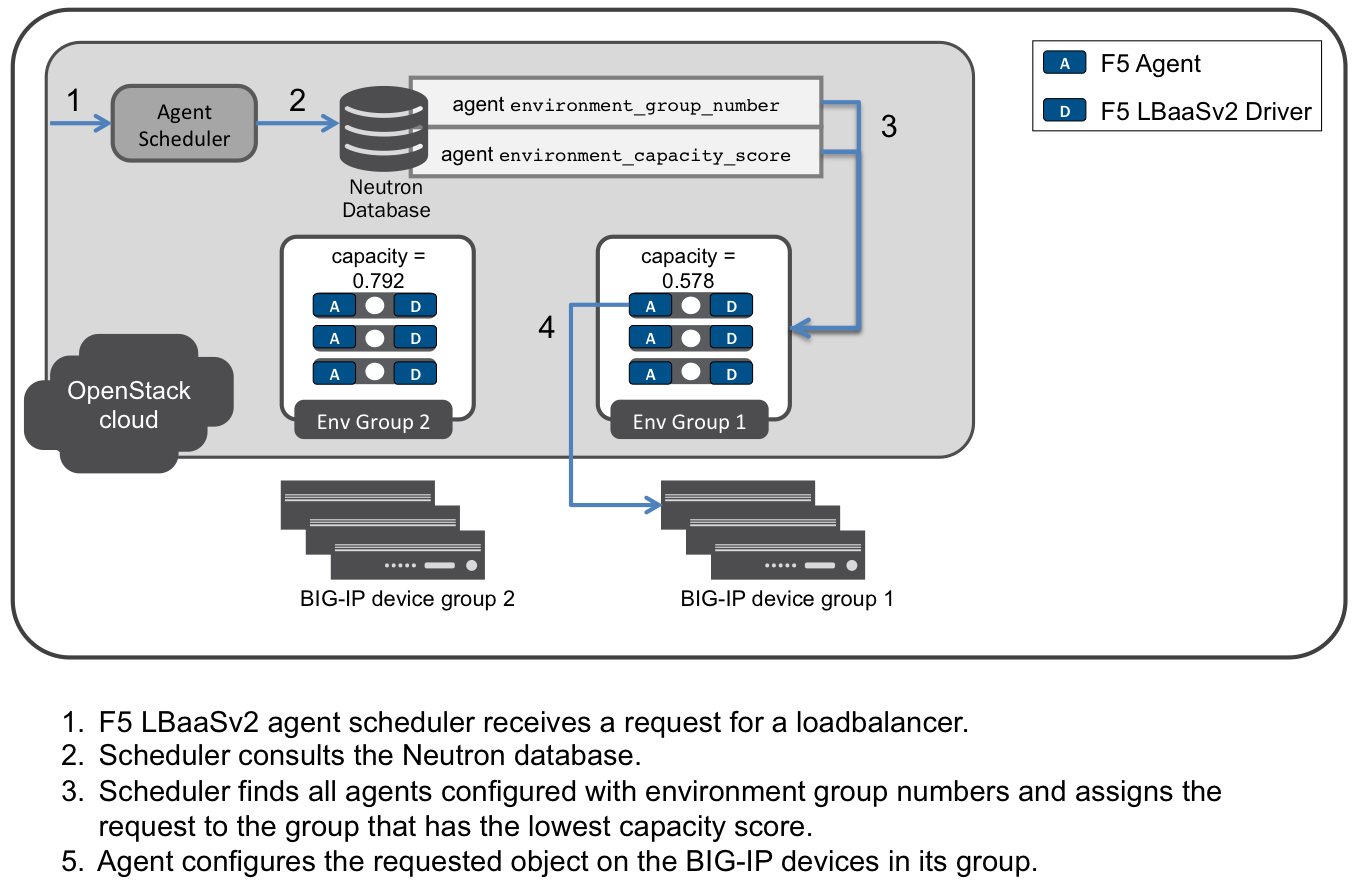
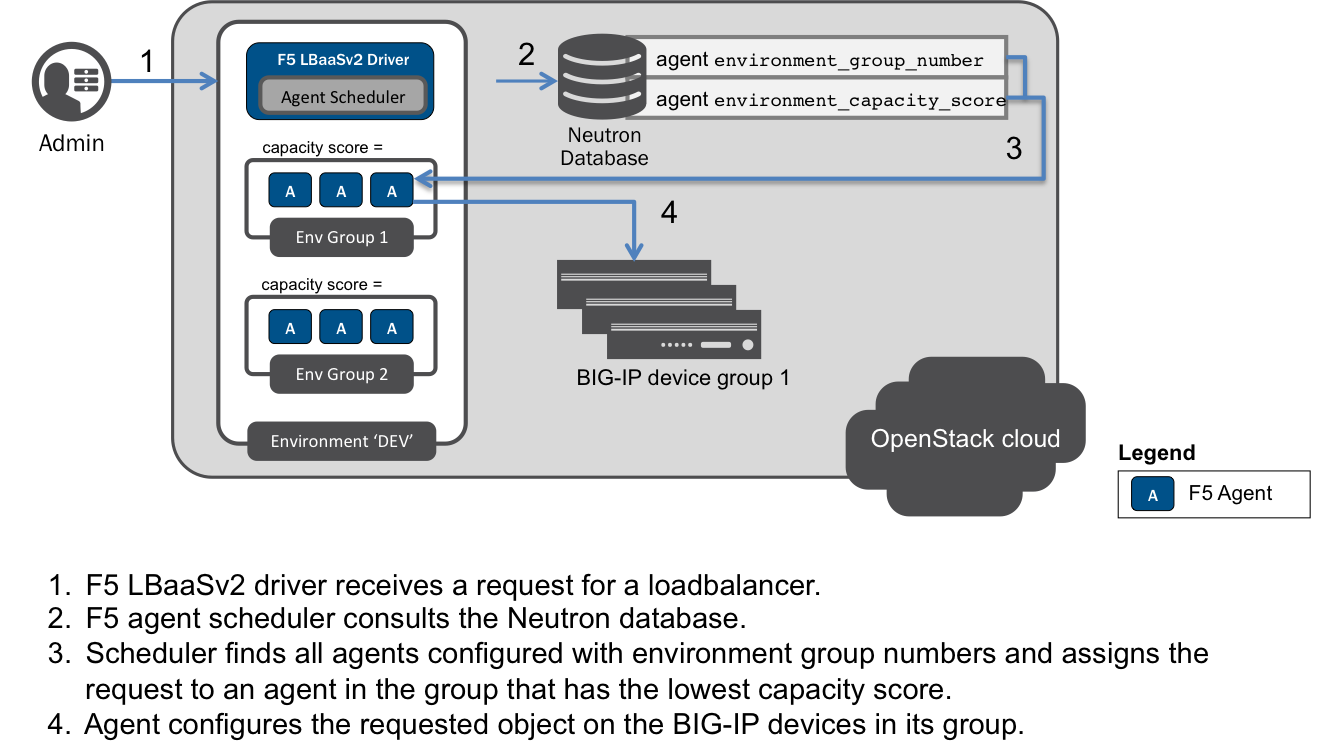
code review from @richbrowne
update diagram for clarity

code review from @richbrowne

fix sphinx build issues"

fix sphinx build issues & add new docs to supported features toctree

diff --git a/docs/includes/topic_l2-l3-segmentation-modes.rst b/docs/includes/topic_l2-l3-segmentation-modes.rst
@@ -12,7 +12,7 @@ The F5® agent uses the L2/L3 segmentation mode settings to determine the L2/L3 
 
     These settings must be configured correctly for the F5 agent to manage your BIG-IP(s). Knowledge of networking concepts and BIG-IP configuration is required.
 
-.. rubric:: L2 segmentation mode settings include:
+L2 segmentation mode settings:
 
 * Mapping VLANs to BIG-IP device interfaces (with or without tagging)
 * Mapping VLAN tags to specific BIG-IP ports
@@ -20,7 +20,7 @@ The F5® agent uses the L2/L3 segmentation mode settings to determine the L2/L3 
 * Tunnel types
 
 
-.. rubric:: L3 segmentation mode settings include:
+L3 segmentation mode settings:
 
 * :ref:`Global routed mode` / Route domains
 * SNAT Mode and SNAT Address Counts
@@ -34,11 +34,11 @@ Typically, the F5 agent is used to manage one (1) or more BIG-IP devices deploye
 
 The default mode of operation for the F5 agent is **L2 adjacent mode** (``f5_global_routed_mode = False``).
 
-.. topic:: Example: L2-adjacent BIG-IP cluster
+.. figure:: ../media/f5-lbaas-l2-3-adjacent-mode.png
+    :alt: L2-adjacent BIG-IP cluster
+    :width: 350
 
-    .. figure:: ../media/f5-lbaas-l2-3-adjacent-mode.png
-        :alt: L2 adjacent mode
-        :width: 350
+    L2-adjacent BIG-IP cluster
 
 .. important:: Knowledge of the external network configuration, and that of the BIG-IP device(s), is required to configure these settings.
 
@@ -63,13 +63,13 @@ Prerequisites
 Caveats
 -------
 
-- Many L3 segmentation mode settings are dependent on how others are configured. It's important to read the text in the :ref:`agent configuration file` carefully before changing these settings to ensure they don't conflict.
+- Many L3 segmentation mode parameters depend on other configuration parameters. It's important to read the text in the :ref:`agent configuration file` carefully before changing these settings to ensure they don't conflict.
 
 
 Configuration
 -------------
 
-All settings can be configured by editing the :ref:`Agent Configuration File`:
+Edit the :ref:`Agent Configuration File` to configure the F5 agent.
 
 .. code-block:: text
 
@@ -82,17 +82,17 @@ All settings can be configured by editing the :ref:`Agent Configuration File`:
     * :download:`Sample Agent Configuration file for VXLAN <../_static/f5-openstack-agent.vxlan.ini>`
 
 
-L2 Segmentation Mode Settings
-`````````````````````````````
+L2 Segmentation Mode
+````````````````````
 
 Device VLAN to interface and tag mapping
 ~~~~~~~~~~~~~~~~~~~~~~~~~~~~~~~~~~~~~~~~
 
 - ``f5_external_physical_mappings``: Maps VLANs to BIG-IP interfaces. Must use the following format:
 
-.. code-block:: text
+    .. code-block:: text
 
-    physical_network:interface_name:tagged
+        physical_network:interface_name:tagged
 
 \
     * ``physical_network``: The external physical network; corresponds to the Neutron ``provider:physical_network`` attribute.
@@ -101,7 +101,7 @@ Device VLAN to interface and tag mapping
 
     * ``tagged``: Value must be True or False; indicates whether or not VLAN tagging should be enforced by the BIG-IP.
 
-.. topic:: Example
+    **Example**
 
     .. code-block:: text
         :emphasize-lines: 31
@@ -142,7 +142,7 @@ Device VLAN to interface and tag mapping
 VLAN device and interface to port mappings
 ~~~~~~~~~~~~~~~~~~~~~~~~~~~~~~~~~~~~~~~~~~
 
-- ``vlan_binding_driver``: Binds tagged VLANs to specific BIG-IP ports; it should be configured using a valid subclass of the iControl® :class:`VLANBindingBase` class. [#]_ To use this feature, uncomment the line in the :ref:`agent configuration file`.
+- ``vlan_binding_driver``: Binds tagged VLANs to specific BIG-IP ports; it should be configured using a valid subclass of the iControl® :class:`VLANBindingBase` class. [#]_ **To use this feature, uncomment the line in the :ref:`agent configuration file`.**
 
 
 Device Tunneling (VTEP) selfips
@@ -152,7 +152,7 @@ Device Tunneling (VTEP) selfips
 
 - ``f5_vtep_selfip_name``: The name of the self IP assigned to the VTEP. The self IP must be configured on the BIG-IP **before** you configure the F5 agent.
 
-.. topic:: Example
+    **Example**
 
     .. code-block:: text
         :emphasize-lines: 9, 10
@@ -175,8 +175,7 @@ Tunnel Types
 
 - ``advertised_tunnel_types``: The type of tunnel(s) being used to connect the BIG-IP device(s) to controller/compute node(s) in OpenStack; can be GRE or VxLAN. Values should be comma-separated if more than one tunnel type is being used. If you are not using tunnels, leave this setting blank.
 
-
-.. topic:: Example
+    **Example**
 
     .. code-block:: text
         :emphasize-lines: 14
@@ -213,7 +212,7 @@ Static ARP population for members on tunnel networks
 
 - ``l2_population``: Value must be True or False; indicates whether or not BIG-IP uses L2 population service to update fbd tunnel entries.
 
-.. topic:: Example
+    **Example**
 
     .. code-block:: text
         :emphasize-lines: 9, 18
@@ -251,7 +250,7 @@ Namespaces and Routing
 
 - ``use_namespaces``: Value must be True or False; indicates whether or not traffic should be routed according to tenant routing tables. Setting this value to True allows subnet IP addresses to overlap.
 
-.. topic:: Example
+    **Example**
 
     .. code-block:: text
         :emphasize-lines: 8
@@ -268,7 +267,7 @@ Namespaces and Routing
 
 - ``max_namespaces_per_tenant``: Value must be an integer; indicates the maximum number of route domains allowed per tenant. This allows a tenant to have overlapping IP subnets.
 
-.. topic:: Example
+    **Example**
 
     .. code-block:: text
         :emphasize-lines: 27
@@ -304,7 +303,7 @@ Namespaces and Routing
 
 - ``f5_route_domain_strictness``: Value must be True or False; indicates whether VIPS and members in different tenants can communicate with each other. In other words, setting this value to true forces tenant routing tables to be preferred over the global routing table.
 
-.. topic:: Example
+    **Example**
 
     .. code-block:: text
         :emphasize-lines: 8
@@ -331,7 +330,7 @@ SNAT Mode and SNAT Address Counts
 
 - ``f5_common_external_networks``: Value must be True or False; when set to True, traffic on all Neutron networks for which the router type is ``external`` will be routed according to the global routing table.
 
-.. topic:: Example
+    **Example**
 
     .. code-block:: text
         :emphasize-lines: 19, 36, 42
@@ -386,7 +385,7 @@ Common Networks
 
 - ``common_network_ids``: This should be a 'name-value' pair; multiple values can be comma-separated. The first entry is the Neutron network ID; the second is the network name (as configured on the BIG-IP).
 
-.. topic:: Example
+    **Example**
 
     .. code-block:: text
         :emphasize-lines: 21, 26
@@ -428,7 +427,7 @@ The L3 Binding driver is **required** for BIG-IP VE(s) deployed within your Open
 
 - ``l3_binding_driver``: uncomment this line in the :ref:`agent configuration file` if you're using an :term:`overcloud` VE.
 
-.. topic:: Example
+    **Example**
 
     .. code-block:: text
         :emphasize-lines: 2

diff --git a/docs/includes/topic_clustering.rst b/docs/includes/topic_clustering.rst
@@ -1,6 +1,6 @@
 :orphan: true
 
-Managing BIG-IP Clusters with F5 LBaaS
+Manage BIG-IP Clusters with F5 LBaaSv2
 ======================================
 
 Overview
@@ -12,17 +12,17 @@ The F5 agent applies LBaaS configuration changes to each BIG-IP :term:`device` i
 
 Clustering provides a greater degree of redundancy than a standalone device offers. It helps to avoid service interruptions that could otherwise occur if a device should go down. F5 LBaaSv2 can manage BIG-IP `Sync-Failover device groups`_ when set to use either the :term:`pair` or the :term:`scalen` :ref:`High Availability mode <HA mode>`.
 
-.. topic:: Example: BIG-IP ``scalen`` cluster
-
     .. figure:: ../media/f5-lbaas-scalen-cluster.png
         :alt: BIG-IP scalen cluster
         :width: 500
+
+        BIG-IP scalen cluster
 
 
 Prerequisites
 -------------
 
-- Basic understanding of `BIG-IP® device service clustering <https://support.f5.com/kb/en-us/products/big-ip_ltm/manuals/product/bigip-device-service-clustering-admin-12-0-0.html>`_.
+- Basic understanding of `BIG-IP device service clustering <https://support.f5.com/kb/en-us/products/big-ip_ltm/manuals/product/bigip-device-service-clustering-admin-12-0-0.html>`_.
 
 - Licensed, operational BIG-IP :term:`device service cluster`.
 
@@ -47,43 +47,43 @@ Caveats
 Configuration
 -------------
 
-1. Edit the :ref:`Agent Configuration File`:
+#. Edit the :ref:`Agent Configuration File`:
 
-.. code-block:: text
+    .. code-block:: text
 
-    $ sudo vi /etc/neutron/services/f5/f5-openstack-agent.ini
+        $ sudo vi /etc/neutron/services/f5/f5-openstack-agent.ini
 
 
-2. Set the :ref:`HA mode` to :term:`pair` or :term:`scalen`.
+#. Set the :ref:`HA mode` to :term:`pair` or :term:`scalen`.
 
-.. code-block:: text
-    :emphasize-lines: 10
+    .. code-block:: text
+        :emphasize-lines: 10
 
-    # HA mode
-    #
-    # Device can be required to be:
-    #
-    # standalone - single device no HA
-    # pair - active-standby two device HA
-    # scalen - active device cluster
-    #
-    #
-    f5_ha_type = pair
-    #
-    #
+        # HA mode
+        #
+        # Device can be required to be:
+        #
+        # standalone - single device no HA
+        # pair - active-standby two device HA
+        # scalen - active device cluster
+        #
+        #
+        f5_ha_type = pair
+        #
+        #
 
-3. Add the IP address for each BIG-IP device, the admin username, and the admin password to the :ref:`Device Driver - iControl® Driver Setting <Device Driver Settings / iControl Driver Settings>` section of the config file. Values must be comma-separated.
+#. Add the IP address for each BIG-IP device, the admin username, and the admin password to the :ref:`Device Driver - iControl® Driver Setting <Device Driver Settings / iControl Driver Settings>` section of the config file. Values must be comma-separated.
 
-.. code-block:: text
-    :emphasize-lines: 10
+    .. code-block:: text
+        :emphasize-lines: 10
 
-    #
-    icontrol_hostname = 10.190.7.232,10.190.4.193
-    #
-    icontrol_username = admin
-    #
-    icontrol_password = admin
-    #
+        #
+        icontrol_hostname = 10.190.7.232,10.190.4.193
+        #
+        icontrol_username = admin
+        #
+        icontrol_password = admin
+        #
 
 
 Further Reading

diff --git a/docs/includes/topic_capacity-based-scaleout.rst b/docs/includes/topic_capacity-based-scaleout.rst
@@ -8,7 +8,7 @@ Overview
 
 When using :ref:`differentiated service environments <Differentiated Service Environments>`, you can configure capacity metrics for the F5® agent to provide scale out across multiple BIG-IP device groups. The F5 agent :ref:`configuration parameters <Configure the F5 OpenStack Agent>`  ``environment_group_number`` and ``environment_capacity_score`` allow the F5 LBaaSv2 agent scheduler to assign requests to the group that has the lowest capacity score.
 
-Each F5 agent is first configured, via the ``icontrol_endpoint`` parameter, to manage a BIG-IP device or device group. Agents with the same ``environment_group_number`` manage the same BIG-IP device group, regardless of whether they are configured with the same iControl® endpoints. This means that an agent can be configured to manage a specific device, but also be available to handle requests for its group.
+Each F5 agent expected to manage a specific :term:`device group` must be configured with the same ``icontrol_endpoints``. They must also be configured with the same ``environment_group_number``; this is used by the F5 LBaaSv2 driver to map the agents to the BIG-IP device group. The ``environment_group_number`` provides a convenient way for the F5 driver to identify agents that are available to handle requests for any of the devices in a given group.
 
 You can configure a variety of capacity metrics via the ``capacity_policy`` configuration parameter. These metrics are used to calculate an ``environment_capacity_score`` for the environment group. Each agent calculates the capacity score for its group and reports the score back to the Neutron database.
 
@@ -20,11 +20,9 @@ The capacity score is determined by dividing the metric collected by the max spe
     Capacity Based Scale Out
 
 
-As demonstrated in the figure, when a new service request is received, the agent scheduler consults the Neutron database. It uses the ``environment_group_number`` and the group's last reported  ``environment_capacity_score`` to assign the task to  the group with the highest availability. An agent in that group is selected at random to handle the request.
+As demonstrated in the figure, when a new service request is received, the agent scheduler consults the Neutron database. It uses the ``environment_group_number`` and the group's last reported  ``environment_capacity_score`` to assign the task to the group with the lowest utilization. An agent in that group is selected at random to handle the request.
 
-If an agent has previously handled requests for the specified tenant, that agent receives the task. If that agent is a member of a group for which the last reported ``environment_capacity_score`` is above capacity, the  request is assigned to an agent in a different group where capacity is under the limit.
-
-If the scheduler doesn't find an associated agent for the tenant when a new request is received,
+If an agent has previously handled requests for the specified tenant, that agent receives the task. If that agent is a member of a group for which the last reported ``environment_capacity_score`` is above capacity, the request is assigned to an agent in a different group where capacity is under the limit.
 
 .. warning::
 

diff --git a/docs/includes/topic_multi-tenancy.rst b/docs/includes/topic_multi-tenancy.rst
@@ -1,6 +1,6 @@
 :orphan: true
 
-Managing Multi-Tenant BIG-IP Devices with F5 LBaaS
+Manage Multi-Tenant BIG-IP Devices with F5 LBaaSv2
 ==================================================
 
 Overview
@@ -8,12 +8,11 @@ Overview
 
 BIG-IP® devices allow users to create and customize partitions for which specific features that meet a tenant's needs can be enabled. This type of configuration, called multi-tenancy, allows a greater degree of flexibility in allocating network resources to multiple individual projects. [#]_
 
-
-.. topic:: Example: Multi-tenant BIG-IP and F5 LBaaS
-
     .. figure:: ../media/f5-lbaas-multi-tenancy.png
         :alt: Multi-tenant BIG-IP and F5 LBaaS
         :width: 500
+
+        Multi-tenant BIG-IP and F5 LBaaS
 
 
 Prerequisites
@@ -39,7 +38,7 @@ When using BIG-IP Virtual Edition (VE) with the Linux bridge or Open vSwitch Neu
 
 1) :ref:`Global Routed Mode`: BIG-IP VE is connected only to provider networks; all pool member L3 addresses must be routable using cloud infrastructure routers.
 
-2) :ref:`L2 Segmentation Modes <L2 Segmentation Mode Settings>` using GRE or VxLAN tunnels: BIG-IP VE has a data connection to a provider network which can route IP packets to the ``local_ip`` VTEP addresses of the compute and network nodes through a cloud infrastructure router.
+2) :ref:`L2 Segmentation Modes <L2 Segmentation Mode>` using GRE or VxLAN tunnels: BIG-IP VE has a data connection to a provider network which can route IP packets to the ``local_ip`` VTEP addresses of the compute and network nodes through a cloud infrastructure router.
 
 .. As of the Mitaka release the Linux bridge and Open vSwitch core plugins do not support the use of VLANs for tenant networks with multi-tenant Nova guest instances.
 
@@ -52,32 +51,17 @@ Configuration
 
     $ sudo vi /etc/neutron/services/f5/f5-openstack-agent.ini
 
-2. Configure the :ref:`L2 Segmentation Mode Settings` as appropriate for your environment.
+2. Configure the :ref:`L2 Segmentation Mode` settings as appropriate for your environment.
 
     * :ref:`Device VLAN to interface and tag mapping`
 
-    .. include:: topic_l2-l3-segmentation-modes.rst
-        :start-line: 101
-        :end-line: 137
-
     * :ref:`VLAN device and interface to port mappings`
 
-
     * :ref:`Device Tunneling (VTEP) selfips` (if using VxLAN or GRE tunnels)
-    .. include:: topic_l2-l3-segmentation-modes.rst
-        :start-line: 152
-        :end-line: 167
 
     * :ref:`Tunnel Types`
-    .. include:: topic_l2-l3-segmentation-modes.rst
-        :start-line: 176
-        :end-line: 203
 
     * :ref:`Static ARP population for members on tunnel networks`
-    .. include:: topic_l2-l3-segmentation-modes.rst
-        :start-line: 213
-        :end-line: 236
-
 
 
 .. important::

diff --git a/docs/includes/topic_differentiated-services.rst b/docs/includes/topic_differentiated-services.rst
@@ -8,14 +8,14 @@ Overview
 
 The F5® LBaaSv2 driver and F5 agent can manage multiple BIG-IP environments. In a :dfn:`differentiated service environment` -- a uniquely-named environment for which dedicated F5 LBaaS services are required -- the F5 driver  has its own, uniquely-named messaging queue. The F5 LBaaS agent scheduler for a differentiated service environment can only assign tasks to agents running in that environment.
 
-The service environment corresponds to the ``environment_prefix`` parameter in the :ref:`agent configuration file`. when you create a new ``lbaas-loadbalancer`` in OpenStack, this prefix is prepended to the OpenStack tenant id and used to create a new partition on your BIG-IP® device(s). The default ``environment_prefix`` parameter is ``Project_``.
+The service environment corresponds to the ``environment_prefix`` parameter in the :ref:`agent configuration file`. when you create a new ``lbaas-loadbalancer`` in OpenStack, this prefix is prepended to the OpenStack tenant id and used to create a new partition on your BIG-IP® device(s). The default ``environment_prefix`` parameter is ``Project``.
 
 Differentiated service environments can be used in conjunction with :ref:`capacity-based scale out` to provide agent redundancy and scale out across BIG-IP device groups.
 
 Neutron Service Provider Driver Entries
 ```````````````````````````````````````
 
-The default service environment, ``Project_``, corresponds to the generic F5Networks :ref:`service provider driver <Set 'F5Networks' as the LBaaSv2 Service Provider>` entry in the Neutron LBaaS configuration file (:file:`/etc/neutron/neutron_lbaas.conf`).
+The default service environment, ``Project``, corresponds to the generic F5Networks :ref:`service provider driver <Set 'F5Networks' as the LBaaSv2 Service Provider>` entry in the Neutron LBaaS configuration file (:file:`/etc/neutron/neutron_lbaas.conf`).
 
 .. important::
 

diff --git a/docs/includes/topic_agent-redundancy-scaleout.rst b/docs/includes/topic_agent-redundancy-scaleout.rst
@@ -28,7 +28,7 @@ How it works:
 
     * The selected agent is then bound to the loadbalancer and handles all future LBaaS requests associated with it.
 
-#. If the agent bound to the loadbalancer is inactive, the scheduler looks for other active agents with tenant affinity and assigns the task to the first one it finds. The loadbalancer remains bound to the original agent, with the expectation that the agent will eventually come back online.
+#. If the agent bound to the loadbalancer is inactive, the scheduler looks for other active agents in the same group as the 'dead' agent and assigns the task to the first one it finds. The loadbalancer remains bound to the original agent, with the expectation that the agent will eventually come back online.
 
 .. warning::
 

diff --git a/docs/map_lbaasv2-features.rst b/docs/map_lbaasv2-features.rst
@@ -16,7 +16,8 @@ Supported Features
     includes/topic_global-routed-mode
     includes/topic_cert-manager
     includes/topic_hierarchical-port-binding
-
+    includes/topic_agent-redundancy-scaleout
+    includes/topic_differentiated-services
 
 
 
